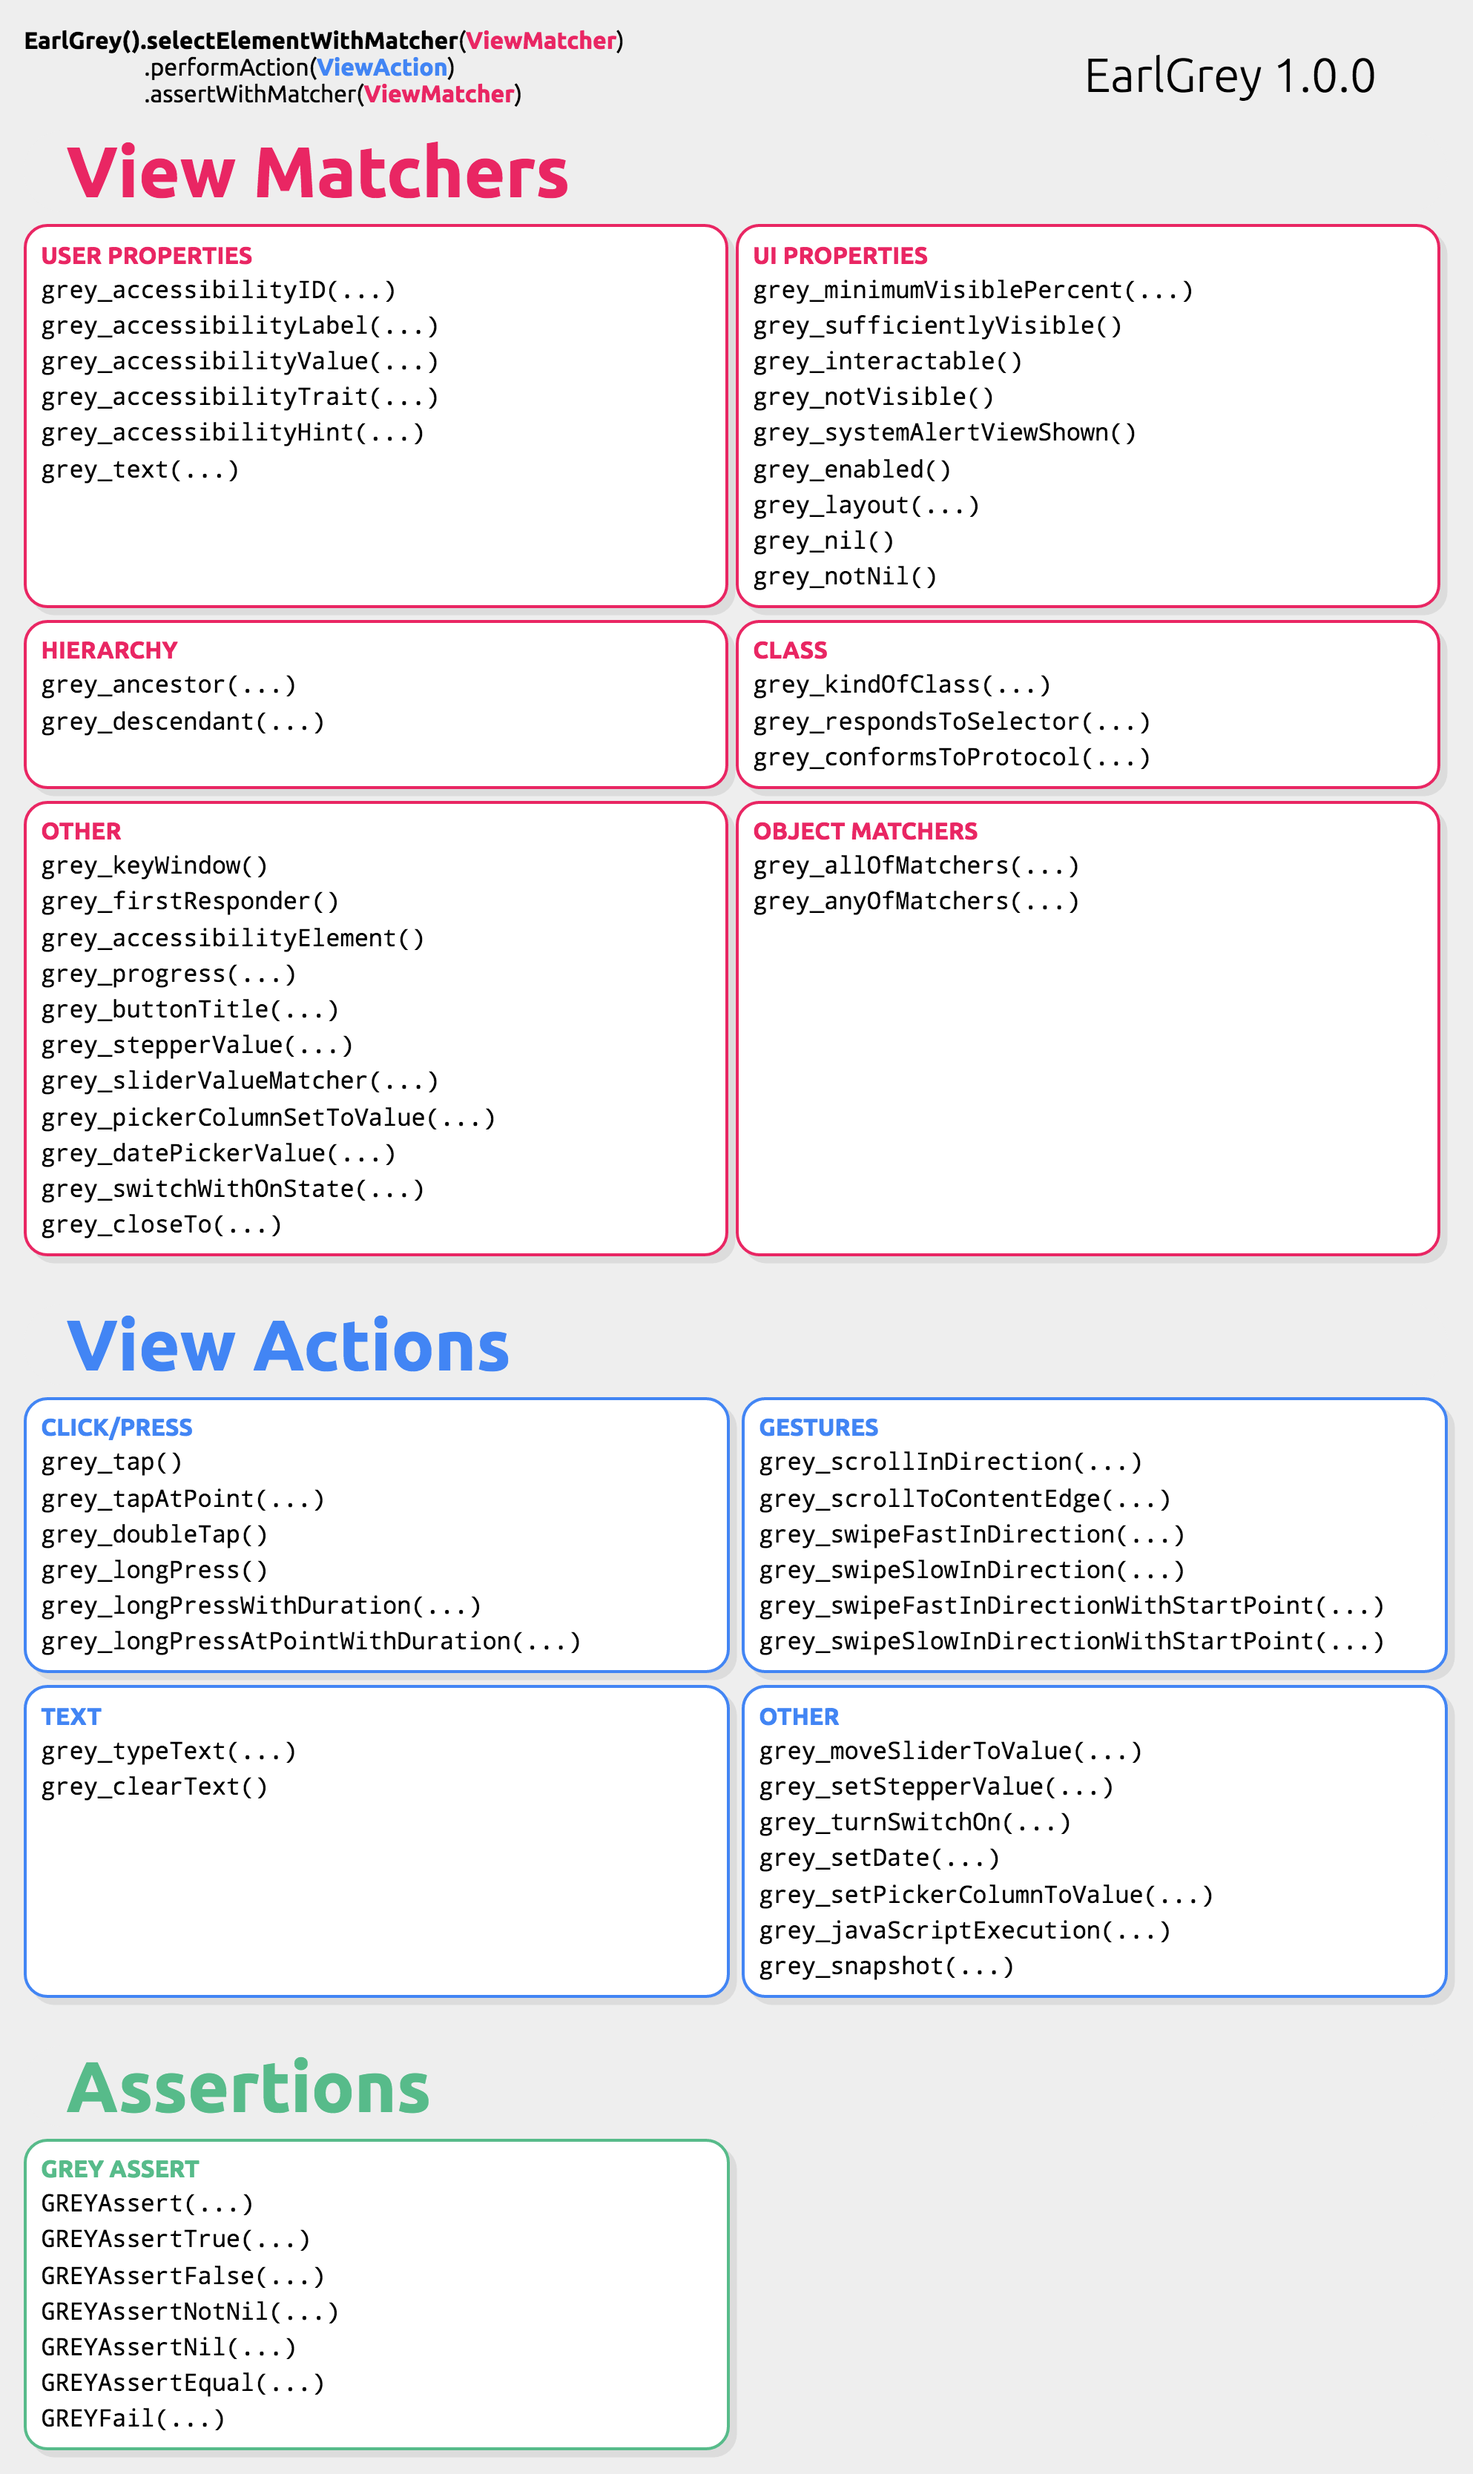
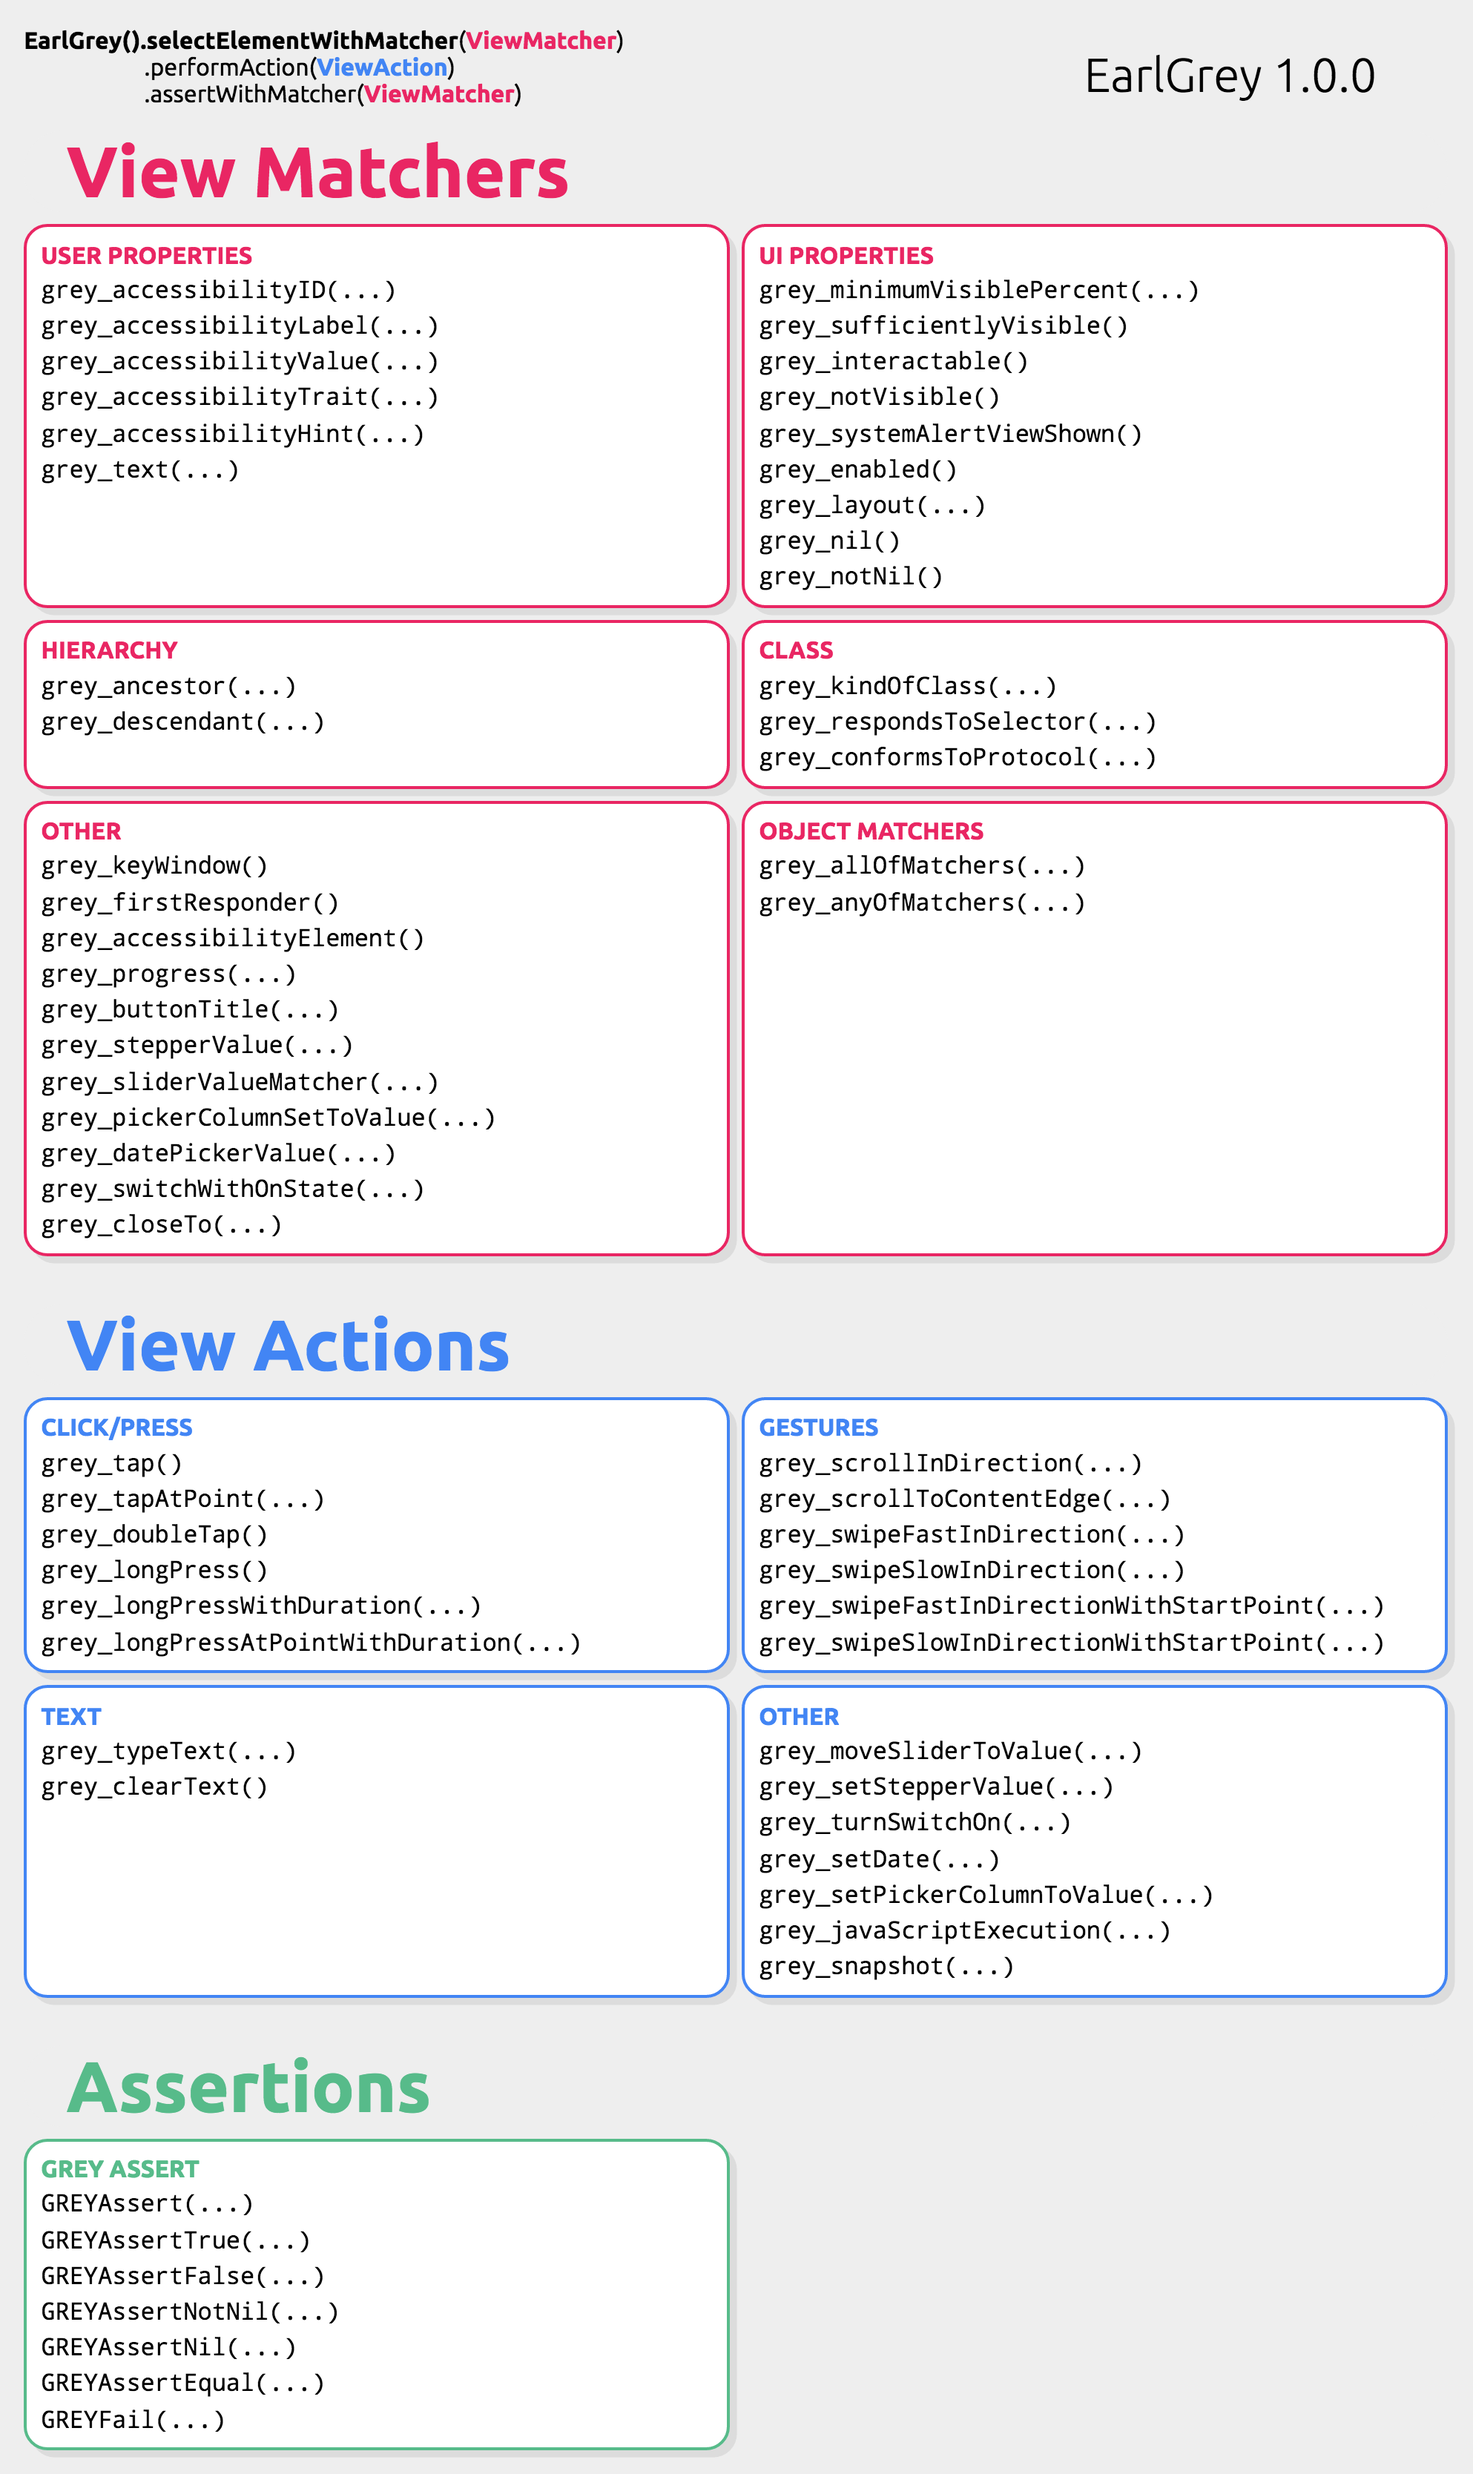
Fix margin/padding

Changed region(s): [[0.4995, 0.0935, 0.7805, 0.4988], [0.9678, 0.0935, 0.999, 0.4988]]

diff --git a/docs/cheatsheet/cheatsheet.css b/docs/cheatsheet/cheatsheet.css
@@ -70,7 +70,6 @@ li:nth-child(even) {
   color: var(--pink-color);
   border-color: var(--pink-color);
   font-family: 'Ubuntu', sans-serif;
-  margin-right: 0.3em;
 }
 
 .body > ul:nth-child(2) > li:nth-child(1) {
@@ -116,8 +115,8 @@ ul > li > ul > li {
   border: none;
   box-shadow: none;
   font-weight: normal;
-  padding: 0.2em 0 0 0;
-  margin: 0;
+  padding: 0;
+  margin: 0.2em 0 0 0;
   flex-basis: 100%;
   font-family: 'Droid Sans Mono' !important;
 }
